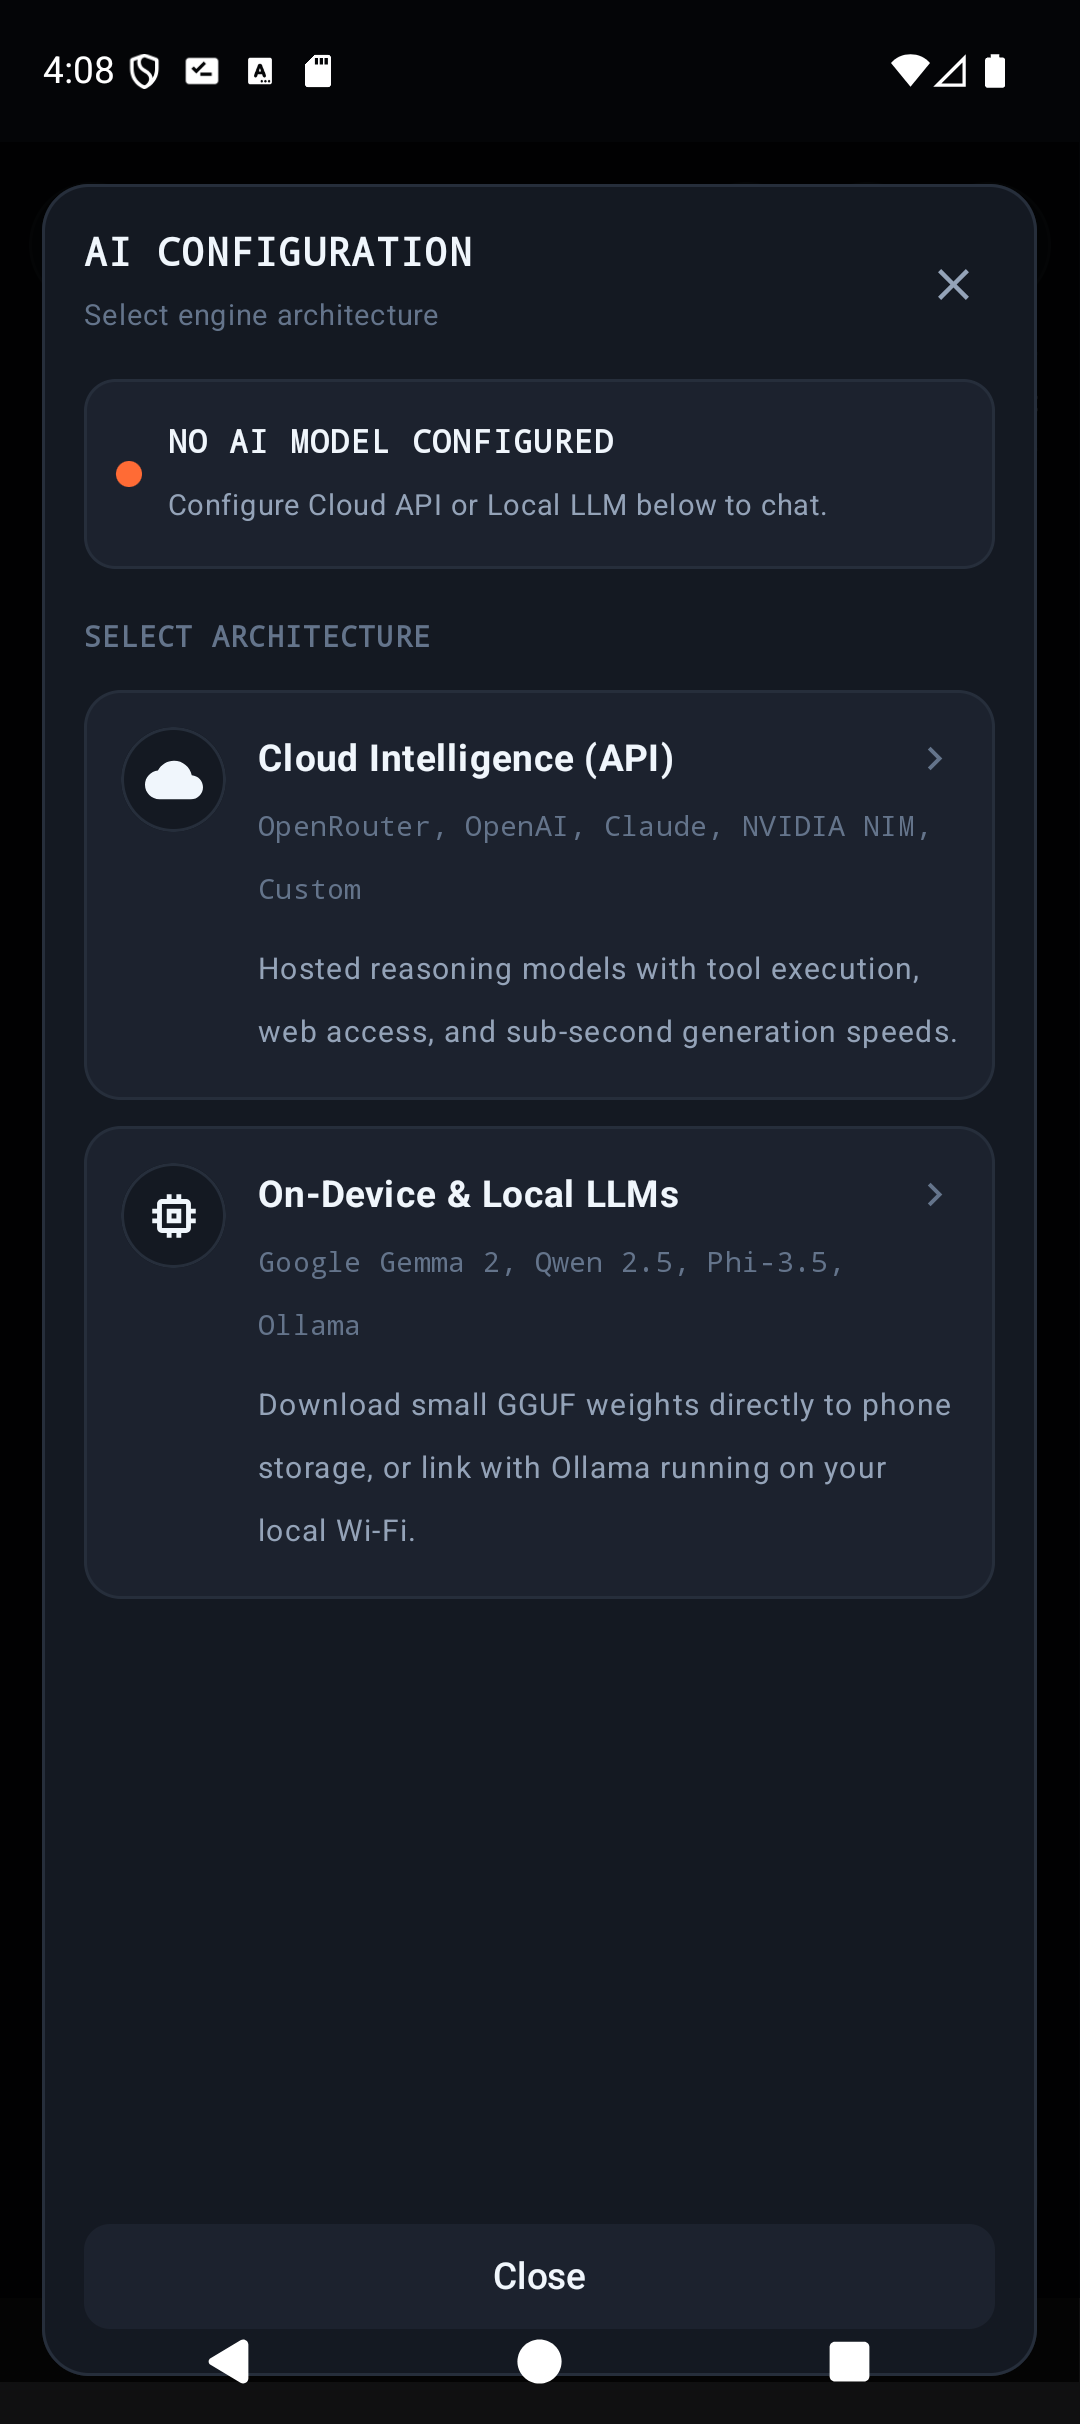
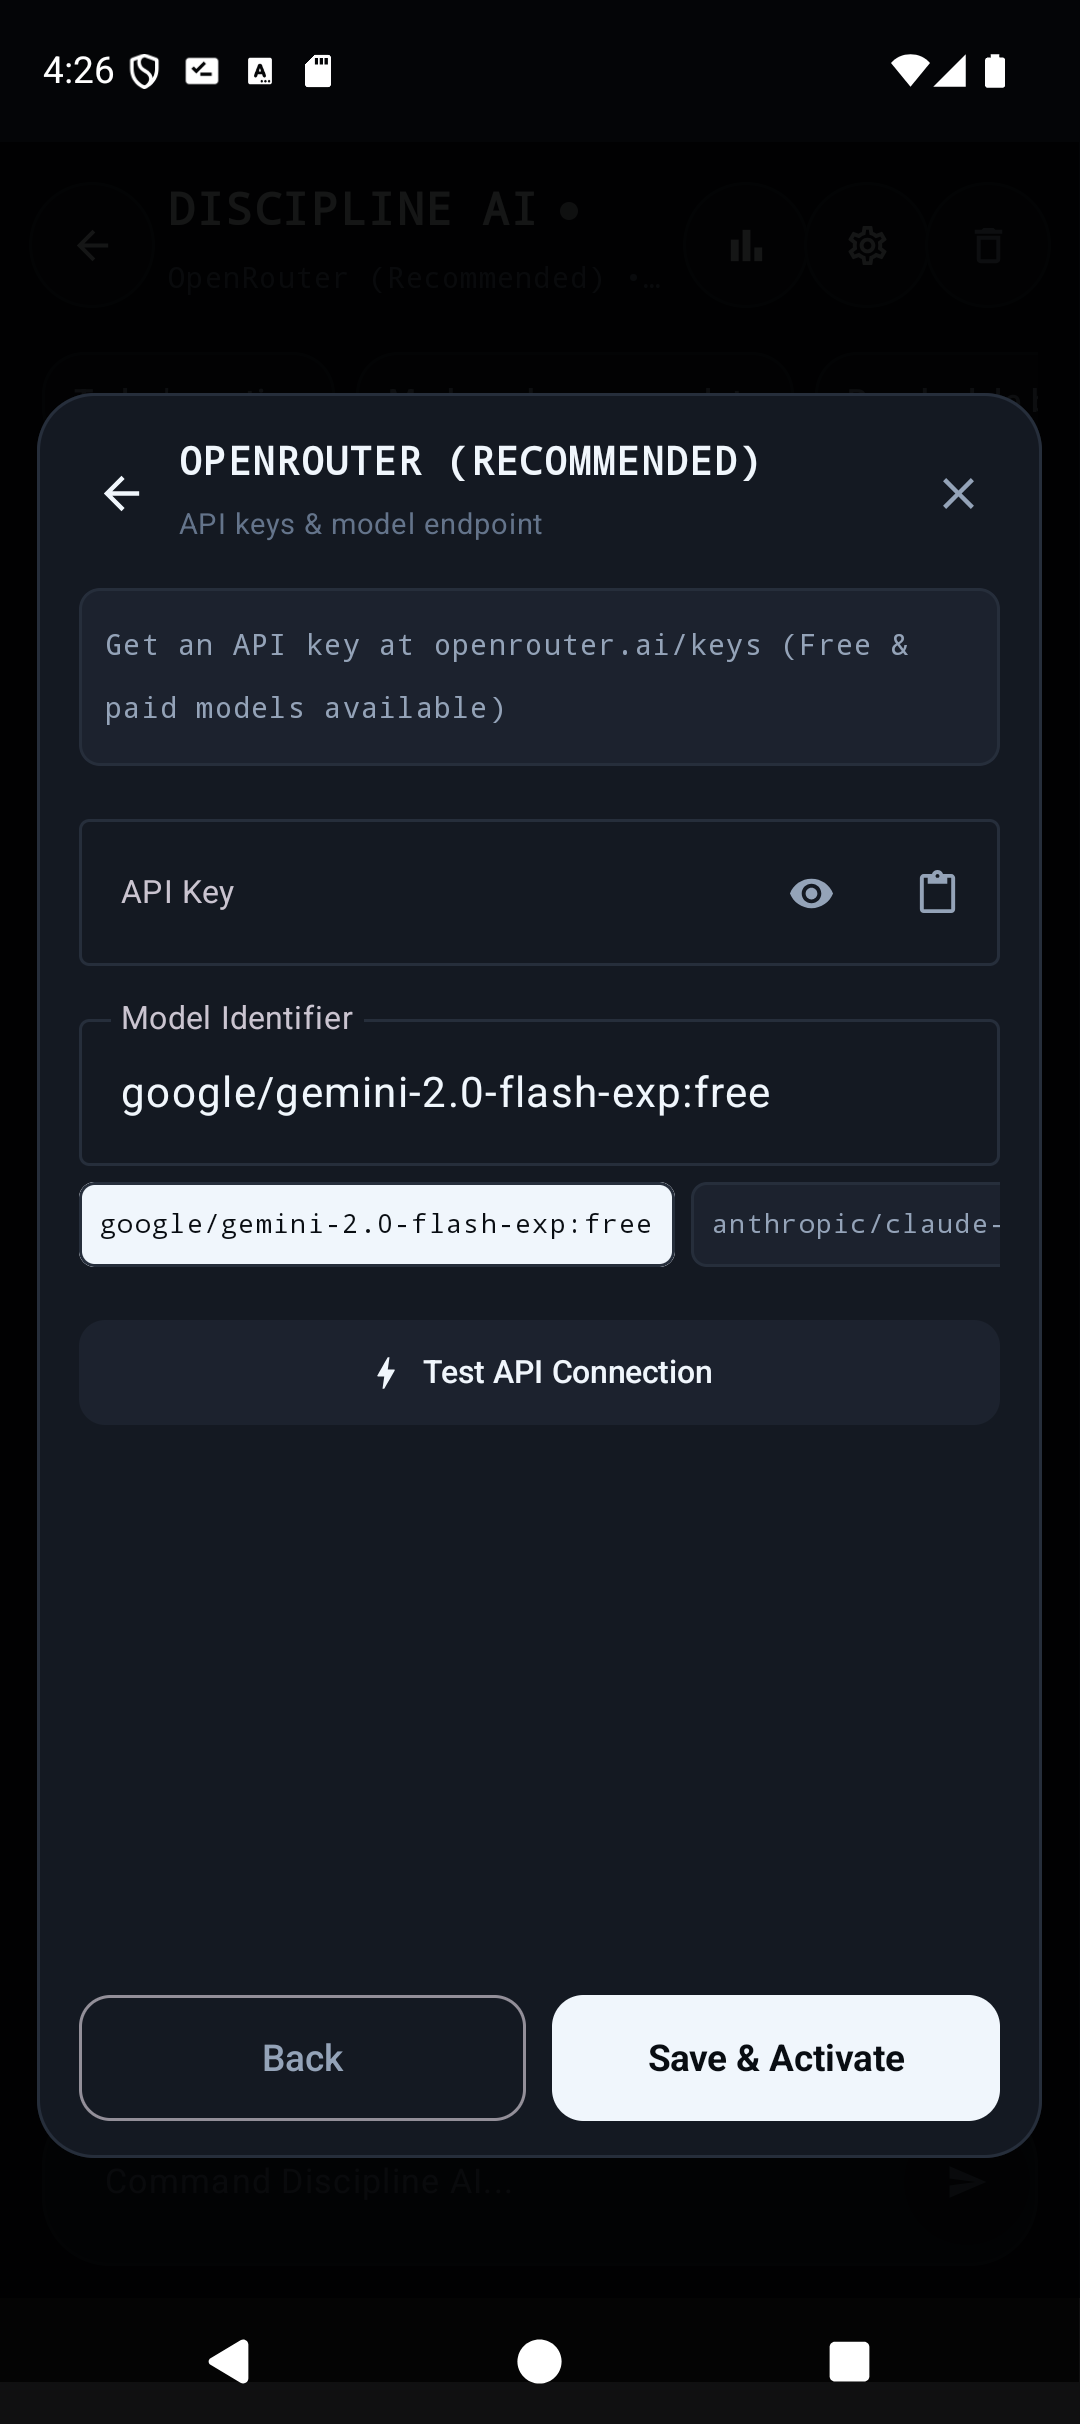
Release DisciplineOS v2.11.0

diff --git a/app/src/main/java/com/discipline/os/ui/AgentScreen.kt b/app/src/main/java/com/discipline/os/ui/AgentScreen.kt
@@ -753,19 +753,17 @@ fun AiSettingsDialog(
         Box(
             modifier = Modifier
                 .fillMaxSize()
-                .background(Color.Black.copy(alpha = 0.75f))
-                .statusBarsPadding()
-                .navigationBarsPadding()
-                .padding(horizontal = 16.dp)
-                .padding(top = 16.dp, bottom = 72.dp),
+                .background(Color.Black.copy(alpha = 0.78f))
+                .padding(horizontal = 14.dp)
+                .padding(top = 36.dp, bottom = 96.dp),
             contentAlignment = Alignment.Center
         ) {
             Surface(
                 modifier = Modifier
                     .fillMaxWidth()
-                    .fillMaxHeight(),
+                    .fillMaxHeight(0.85f),
                 color = colors.cardBg,
-                shape = RoundedCornerShape(18.dp),
+                shape = RoundedCornerShape(22.dp),
                 border = androidx.compose.foundation.BorderStroke(1.dp, colors.borderSubtle)
             ) {
                 Column(
@@ -1669,20 +1667,24 @@ fun AiSettingsDialog(
                         AiDialogScreen.TYPE_SELECT -> {
                             Button(
                                 onClick = onDismiss,
-                                modifier = Modifier.fillMaxWidth(),
+                                modifier = Modifier
+                                    .fillMaxWidth()
+                                    .height(48.dp),
                                 colors = ButtonDefaults.buttonColors(containerColor = colors.cardElevated),
-                                shape = RoundedCornerShape(10.dp)
+                                shape = RoundedCornerShape(12.dp)
                             ) {
-                                Text("Close", color = colors.textPrimary)
+                                Text("Close", color = colors.textPrimary, fontWeight = FontWeight.SemiBold)
                             }
                         }
                         AiDialogScreen.CLOUD_LIST -> {
                             OutlinedButton(
                                 onClick = { currentScreen = AiDialogScreen.TYPE_SELECT },
-                                modifier = Modifier.fillMaxWidth(),
-                                shape = RoundedCornerShape(10.dp)
+                                modifier = Modifier
+                                    .fillMaxWidth()
+                                    .height(48.dp),
+                                shape = RoundedCornerShape(12.dp)
                             ) {
-                                Text("Back to Architecture", color = colors.textSecondary)
+                                Text("← Back to Architecture", color = colors.textSecondary, fontWeight = FontWeight.Medium)
                             }
                         }
                         AiDialogScreen.PROVIDER_CONFIG -> {
@@ -1692,10 +1694,12 @@ fun AiSettingsDialog(
                             ) {
                                 OutlinedButton(
                                     onClick = { currentScreen = AiDialogScreen.CLOUD_LIST },
-                                    modifier = Modifier.weight(1f),
-                                    shape = RoundedCornerShape(10.dp)
+                                    modifier = Modifier
+                                        .weight(1f)
+                                        .height(48.dp),
+                                    shape = RoundedCornerShape(12.dp)
                                 ) {
-                                    Text("Back", color = colors.textSecondary)
+                                    Text("Back", color = colors.textSecondary, fontWeight = FontWeight.Medium)
                                 }
 
                                 Button(
@@ -1710,9 +1714,11 @@ fun AiSettingsDialog(
                                         Toast.makeText(context, "Activated ${selectedProvider.displayName}", Toast.LENGTH_SHORT).show()
                                         onDismiss()
                                     },
-                                    modifier = Modifier.weight(1f),
+                                    modifier = Modifier
+                                        .weight(1f)
+                                        .height(48.dp),
                                     colors = ButtonDefaults.buttonColors(containerColor = colors.primaryActionBg),
-                                    shape = RoundedCornerShape(10.dp)
+                                    shape = RoundedCornerShape(12.dp)
                                 ) {
                                     Text("Save & Activate", color = colors.primaryActionFg, fontWeight = FontWeight.Bold)
                                 }
@@ -1725,19 +1731,23 @@ fun AiSettingsDialog(
                             ) {
                                 OutlinedButton(
                                     onClick = { currentScreen = AiDialogScreen.TYPE_SELECT },
-                                    modifier = Modifier.weight(1f),
-                                    shape = RoundedCornerShape(10.dp)
+                                    modifier = Modifier
+                                        .weight(1f)
+                                        .height(48.dp),
+                                    shape = RoundedCornerShape(12.dp)
                                 ) {
-                                    Text("Back to Architecture", color = colors.textSecondary)
+                                    Text("Back", color = colors.textSecondary, fontWeight = FontWeight.Medium)
                                 }
 
                                 Button(
                                     onClick = onDismiss,
-                                    modifier = Modifier.weight(1f),
+                                    modifier = Modifier
+                                        .weight(1f)
+                                        .height(48.dp),
                                     colors = ButtonDefaults.buttonColors(containerColor = colors.cardElevated),
-                                    shape = RoundedCornerShape(10.dp)
+                                    shape = RoundedCornerShape(12.dp)
                                 ) {
-                                    Text("Done", color = colors.textPrimary)
+                                    Text("Done", color = colors.textPrimary, fontWeight = FontWeight.SemiBold)
                                 }
                             }
                         }
